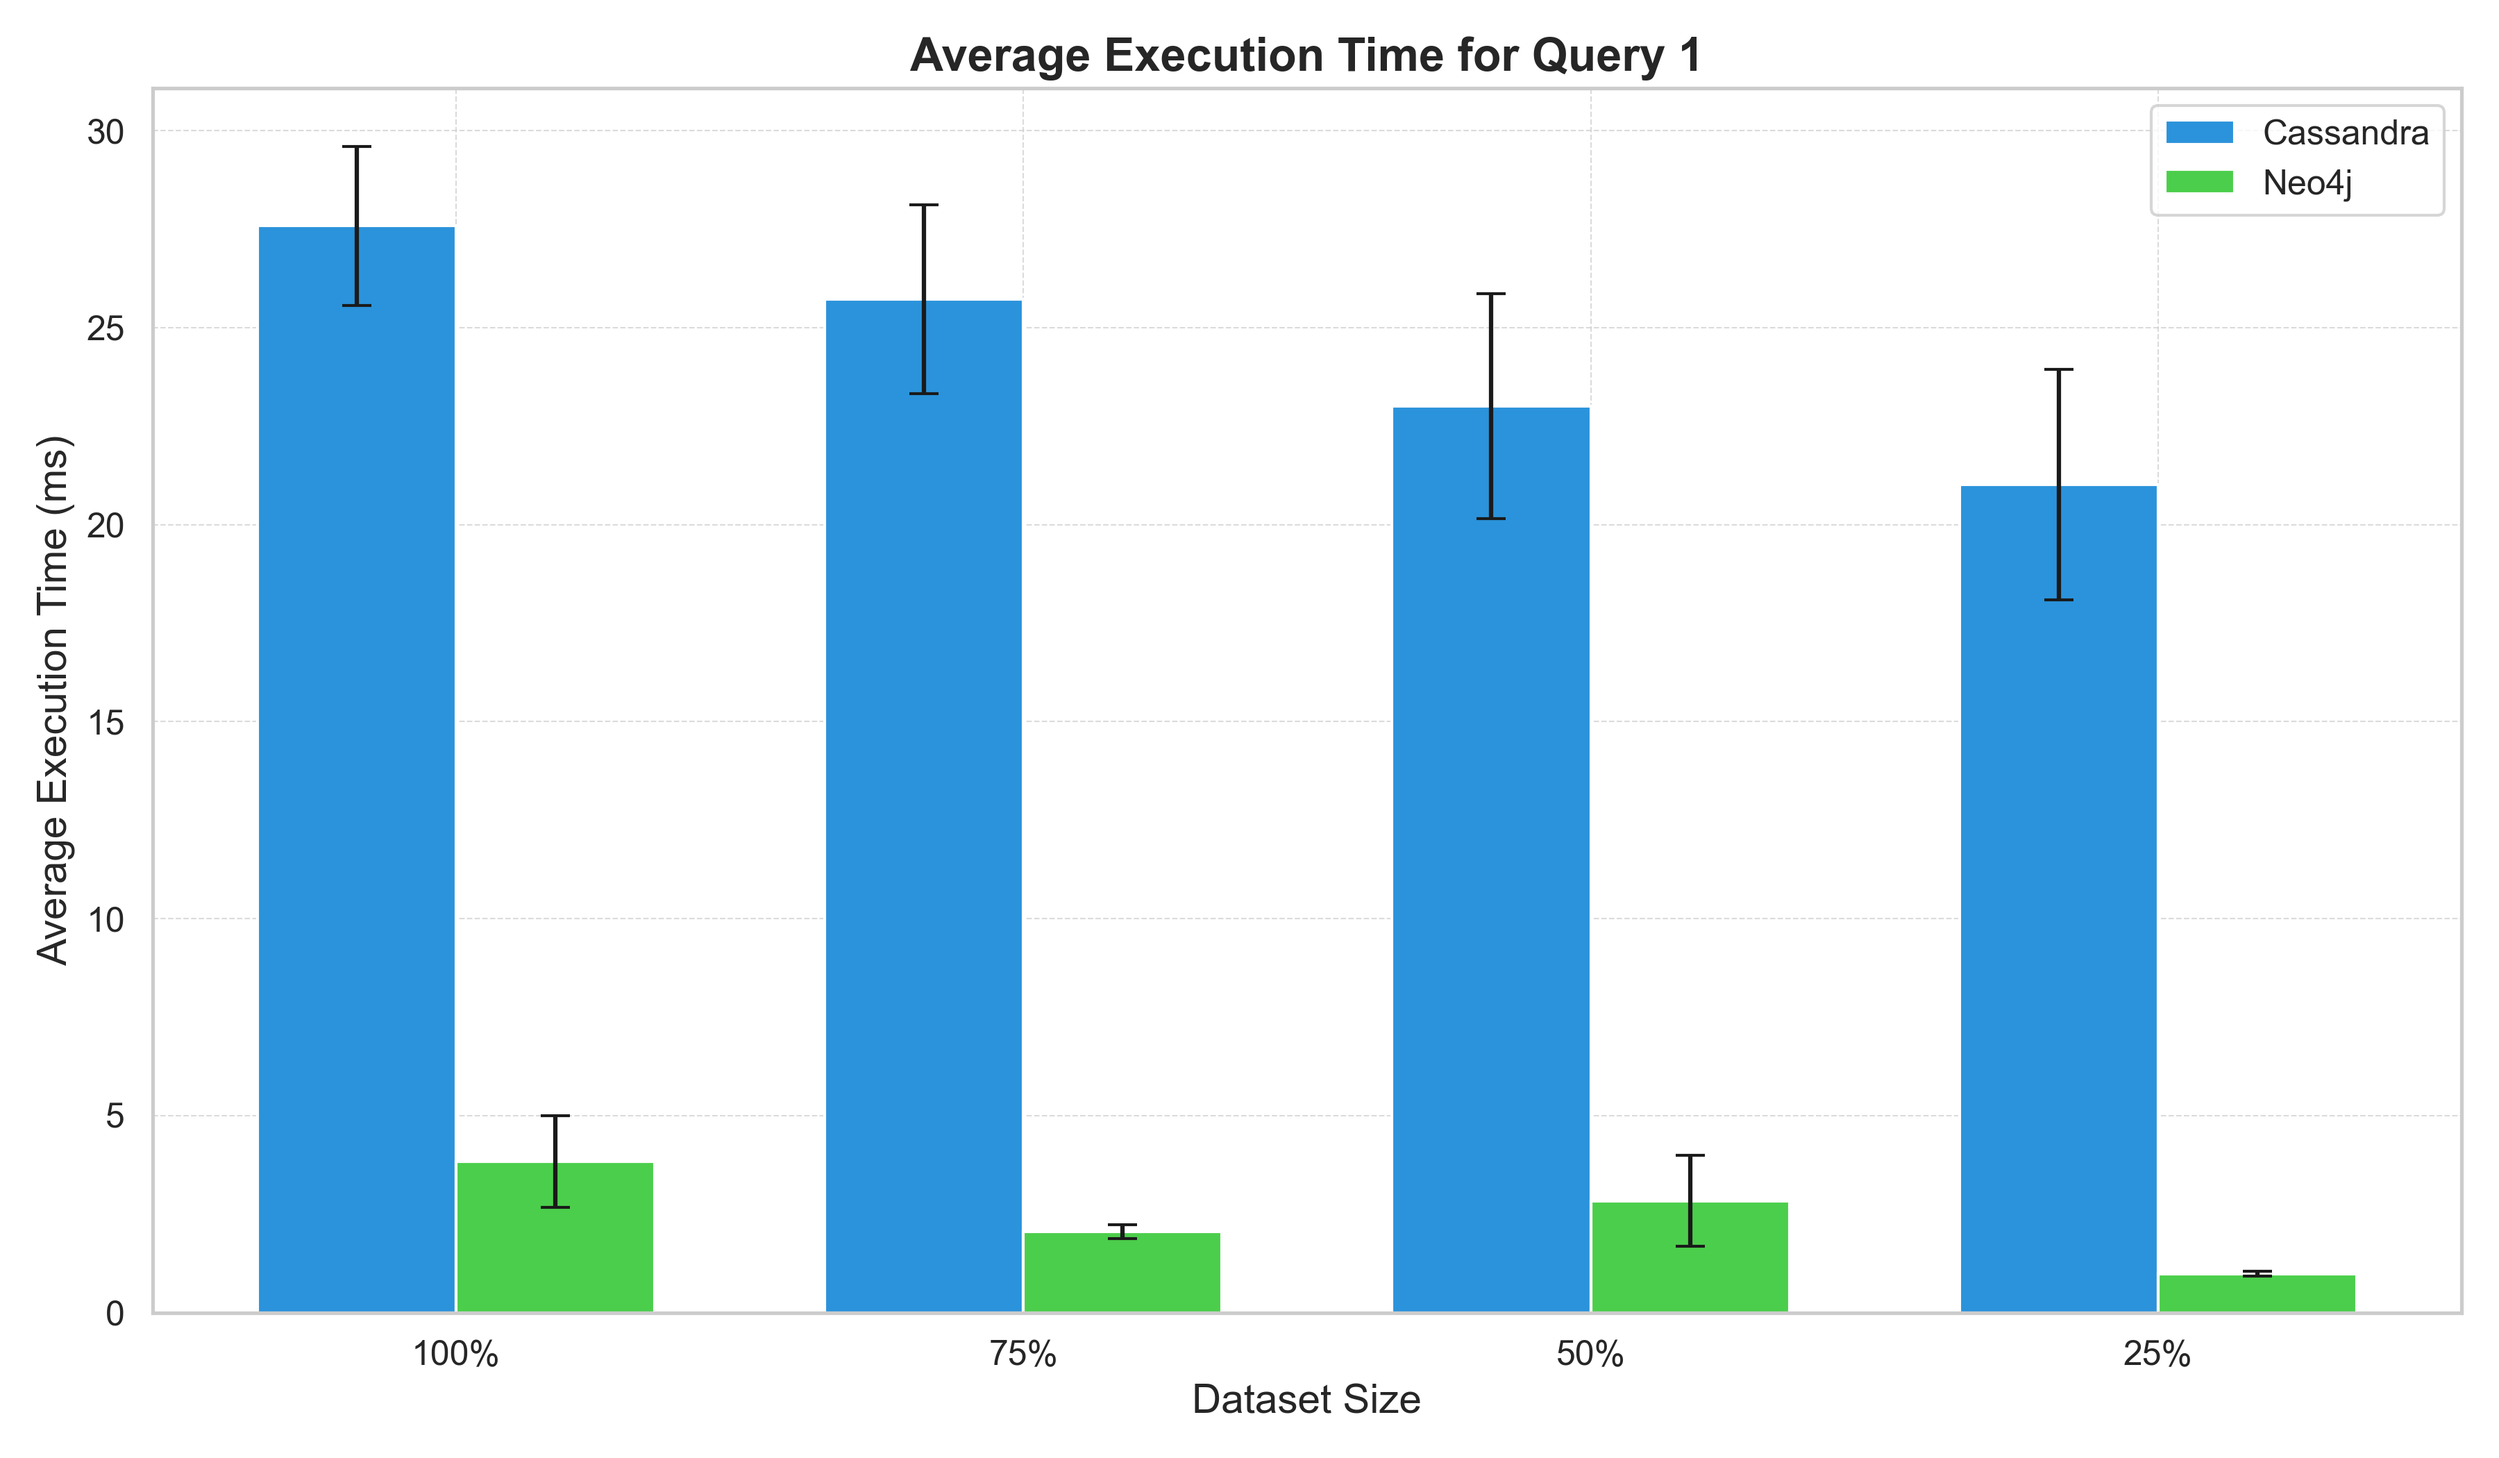
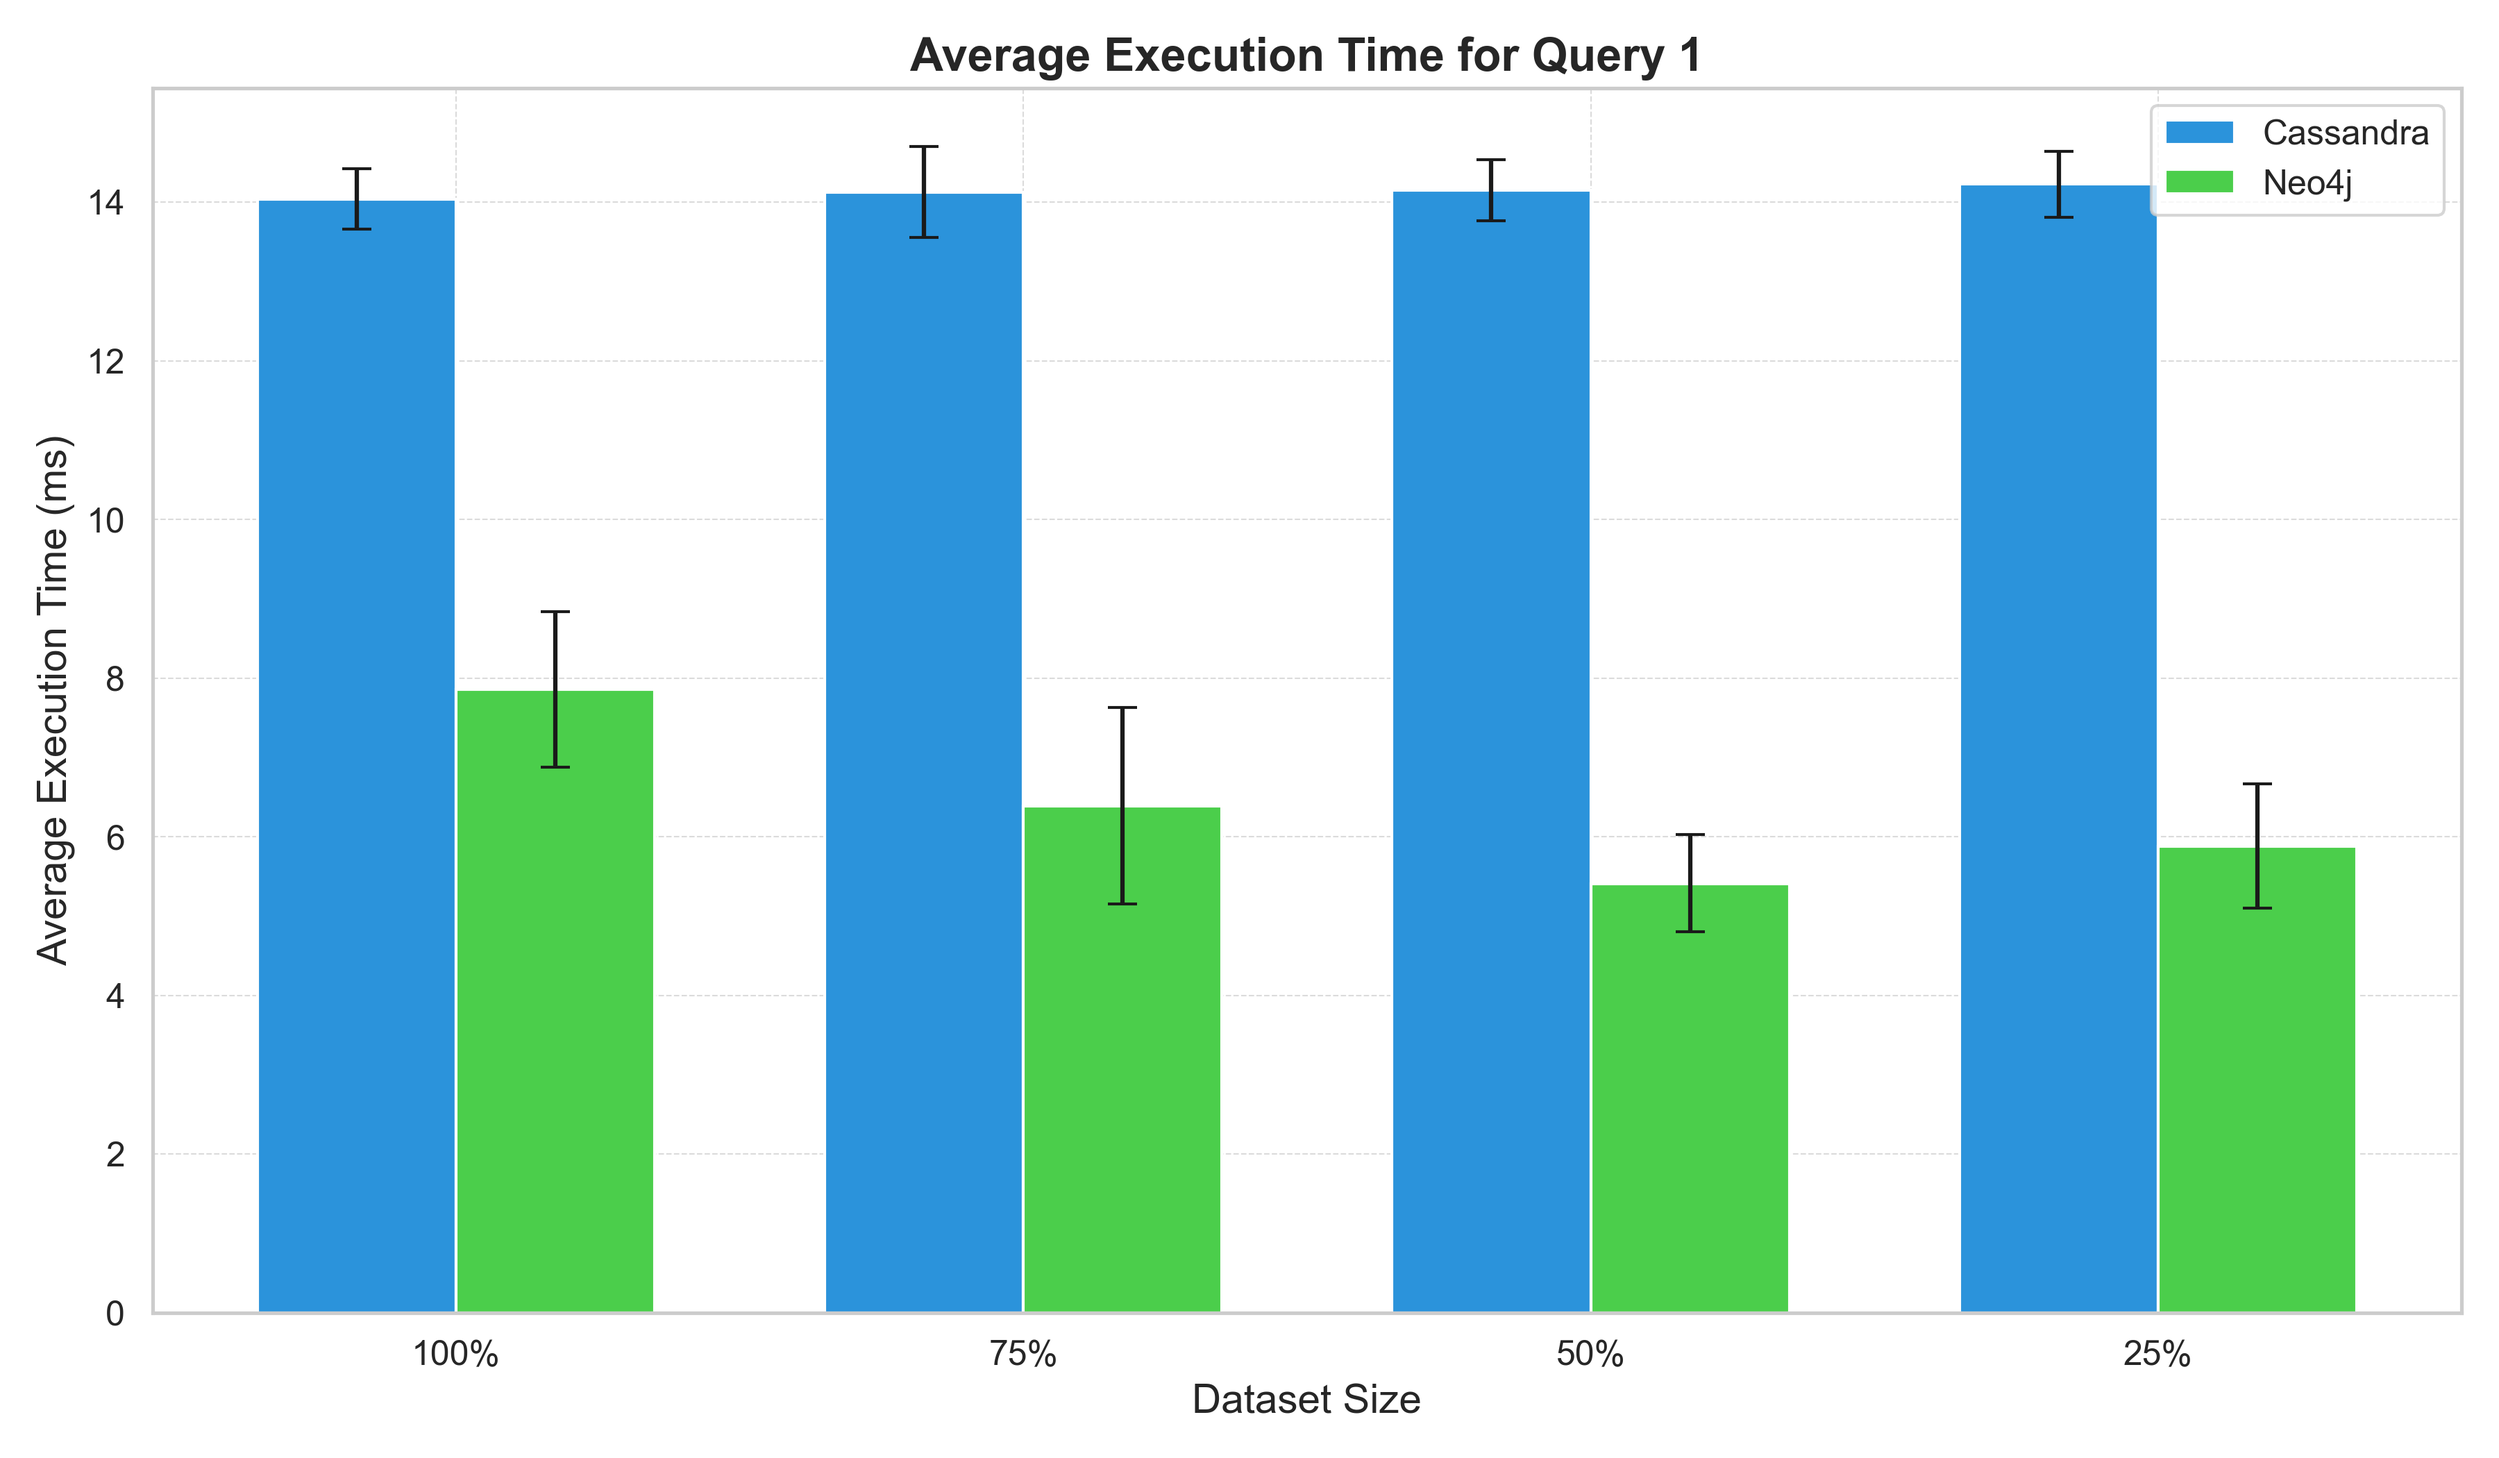
Aggiustamenti finali

diff --git a/Cassandra/Query[Cassandra].py b/Cassandra/Query[Cassandra].py
@@ -52,21 +52,25 @@ def process_datasets():
     # Livello di complessità Non Onerosità
     queries = {
         'Query 1': """
-            SELECT patient_id, SUM(visit_count) AS total_visits 
-            FROM patient_visit_counts 
-            WHERE visit_date >= '2021-01-01' 
-            AND visit_date <= '2023-12-31' 
-            GROUP BY patient_id
-            ALLOW FILTERING;
-        """,
+            SELECT *
+            FROM patients
+            WHERE birthdate >= '1940-06-21'
+            ALLOW FILTERING; 
+            """,
+            #AND visit_date <= '2023-12-31' 
+            #GROUP BY patient_id
+            #ALLOW FILTERING;
+       
         'Query 2': """
             SELECT doctor_id, specialization, SUM(visit_count) AS total_visits 
             FROM doctor_visits 
             WHERE visit_date >= '2021-01-01'
-            AND visit_date <= '2023-12-31'
-            GROUP BY doctor_id, specialization
             ALLOW FILTERING;
-        """,
+             """,
+            #AND visit_date <= '2023-12-31'
+            #GROUP BY doctor_id, specialization
+            #ALLOW FILTERING;
+       
         'Query 3': """
             SELECT procedure_id, doctor_specialization, 
             SUM(procedure_count) AS total_procedures 

diff --git a/Neo4j/Query[Neo4j].py b/Neo4j/Query[Neo4j].py
@@ -47,14 +47,13 @@ def process_datasets():
 
     queries = {
         'Query 1': """
-        MATCH (p:Patient)-[:VISIT_BY]-(v:Visit)
-        WHERE v.date >= '2021-01-01' AND v.date <= '2023-12-31'
-        WITH p, COUNT(v) AS total_visits
-        RETURN p.id AS patient_id, total_visits
+        MATCH (p:Patient)
+        WHERE p.birthdate >= '1940-06-21'
+        RETURN p
         """,
         'Query 2': """ 
         MATCH (d:Doctor)-[:VISIT_TO]-(v:Visit)
-        WHERE v.date >= '2021-01-01' AND v.date <= '2023-12-31'
+        WHERE v.date >= '2021-01-01'
         WITH d, d.specialization AS specialization, COUNT(v) AS total_visits
         RETURN d.id AS doctor_id, specialization, total_visits
         """,
